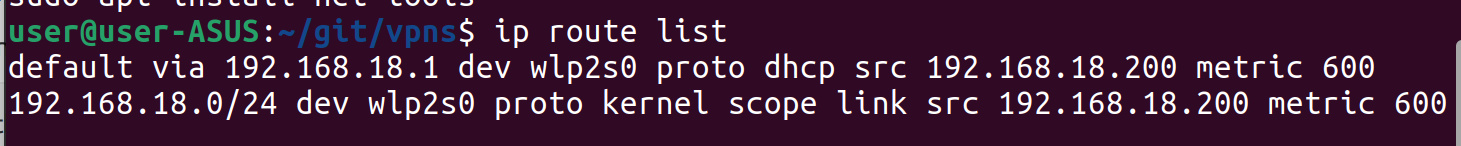
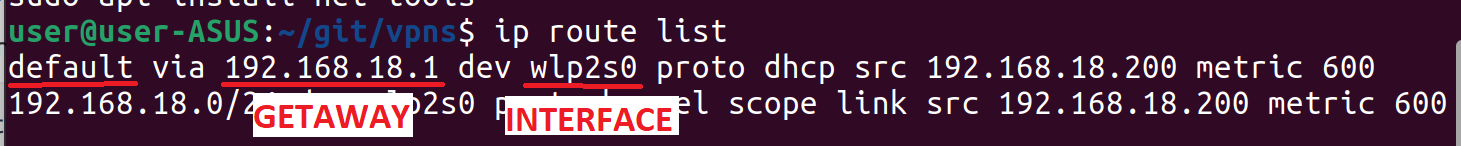
windows

diff --git a/md/windows.md b/md/windows.md
@@ -1,3 +1,27 @@
 # Windows
+1) Download [tun2socks](https://github.com/xjasonlyu/tun2socks/releases/tag/v2.4.1) for your OS and platform
+2) To use it in windows, download [wintun](https://www.wintun.net/) to the tun2socks folder or the system PATH.
+3) Run Terminal as Administrator
+4) Run
+```bash
+start tun2socks -device wintun -proxy socks5://<NAME>:<PASSWORD>@<SERVER_IP>:<PORT>
+netsh interface ip set address name="wintun" source=static addr=192.168.123.1 mask=255.255.255.0 gateway=none
+```
+5) Find out your Getaway (GETAWAY) and default interface (INTERFACE).
 
->todo
+```bash
+route print
+```
+![route print](../img/win.png)
+>in that example INTERFACE = 38
+
+6) Run
+```bash
+route add 0.0.0.0 mask 0.0.0.0 192.168.123.1 if <INTERFACE> metric 5
+route add <SERVER_IP> mask 255.255.255.255 <GETAWAY>
+```
+
+## How to shutdown
+```bash
+taskkill /IM tun2socks.exe
+```

diff --git a/md/linux.md b/md/linux.md
@@ -37,4 +37,4 @@ sudo ip route del default
 
 or restart your system =)
 
->todo find a way to restart network service
+>todo find a way to restart the network service
